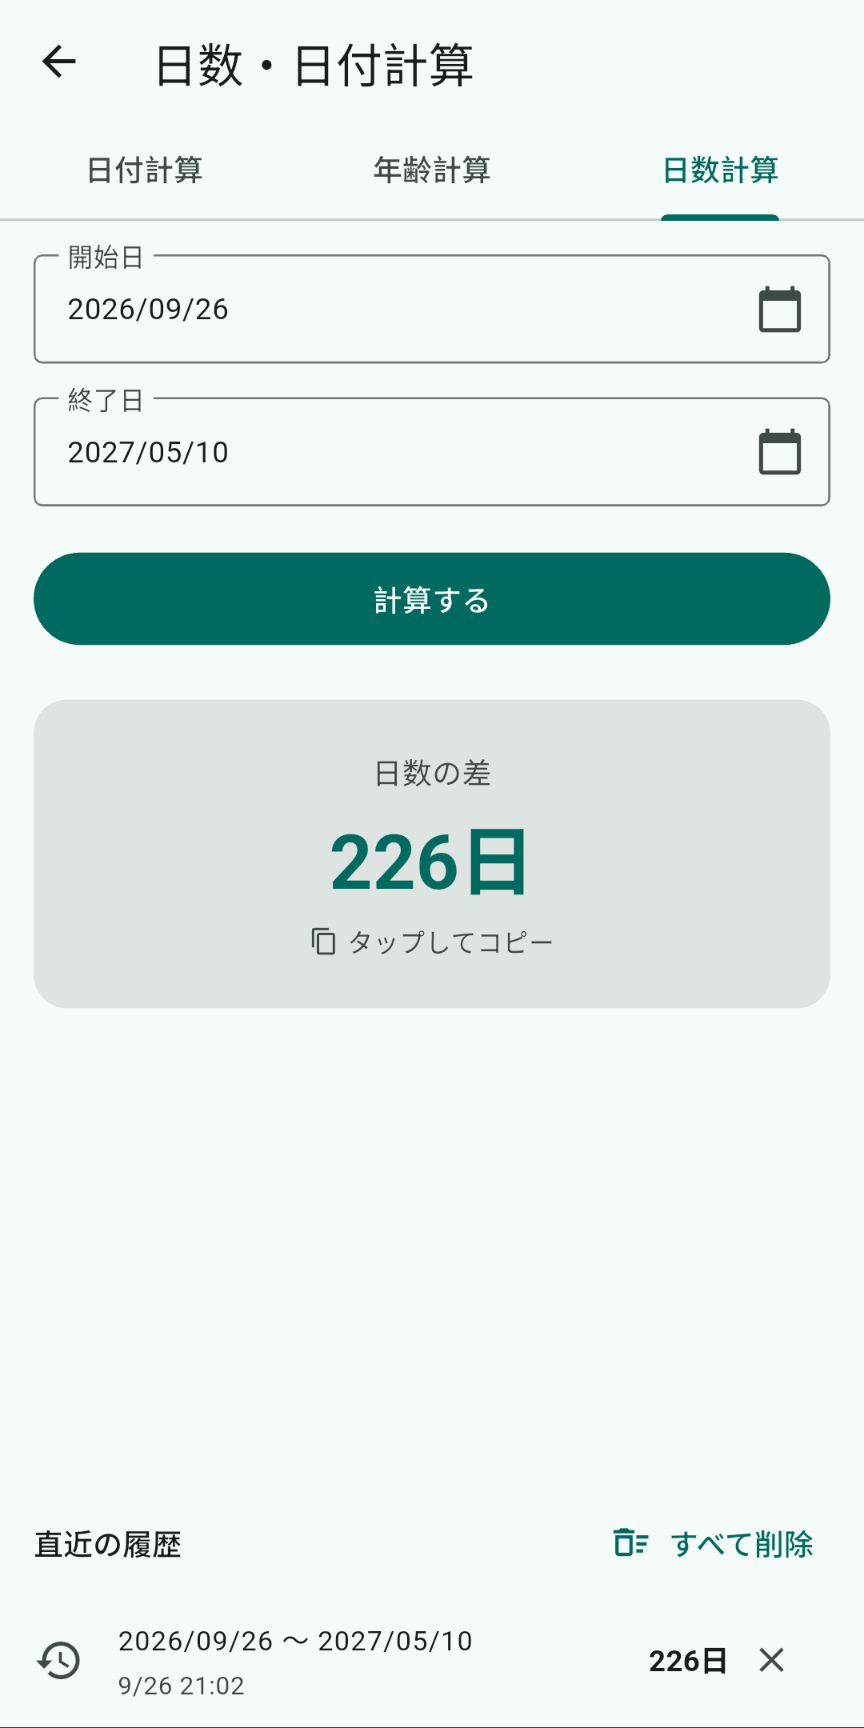
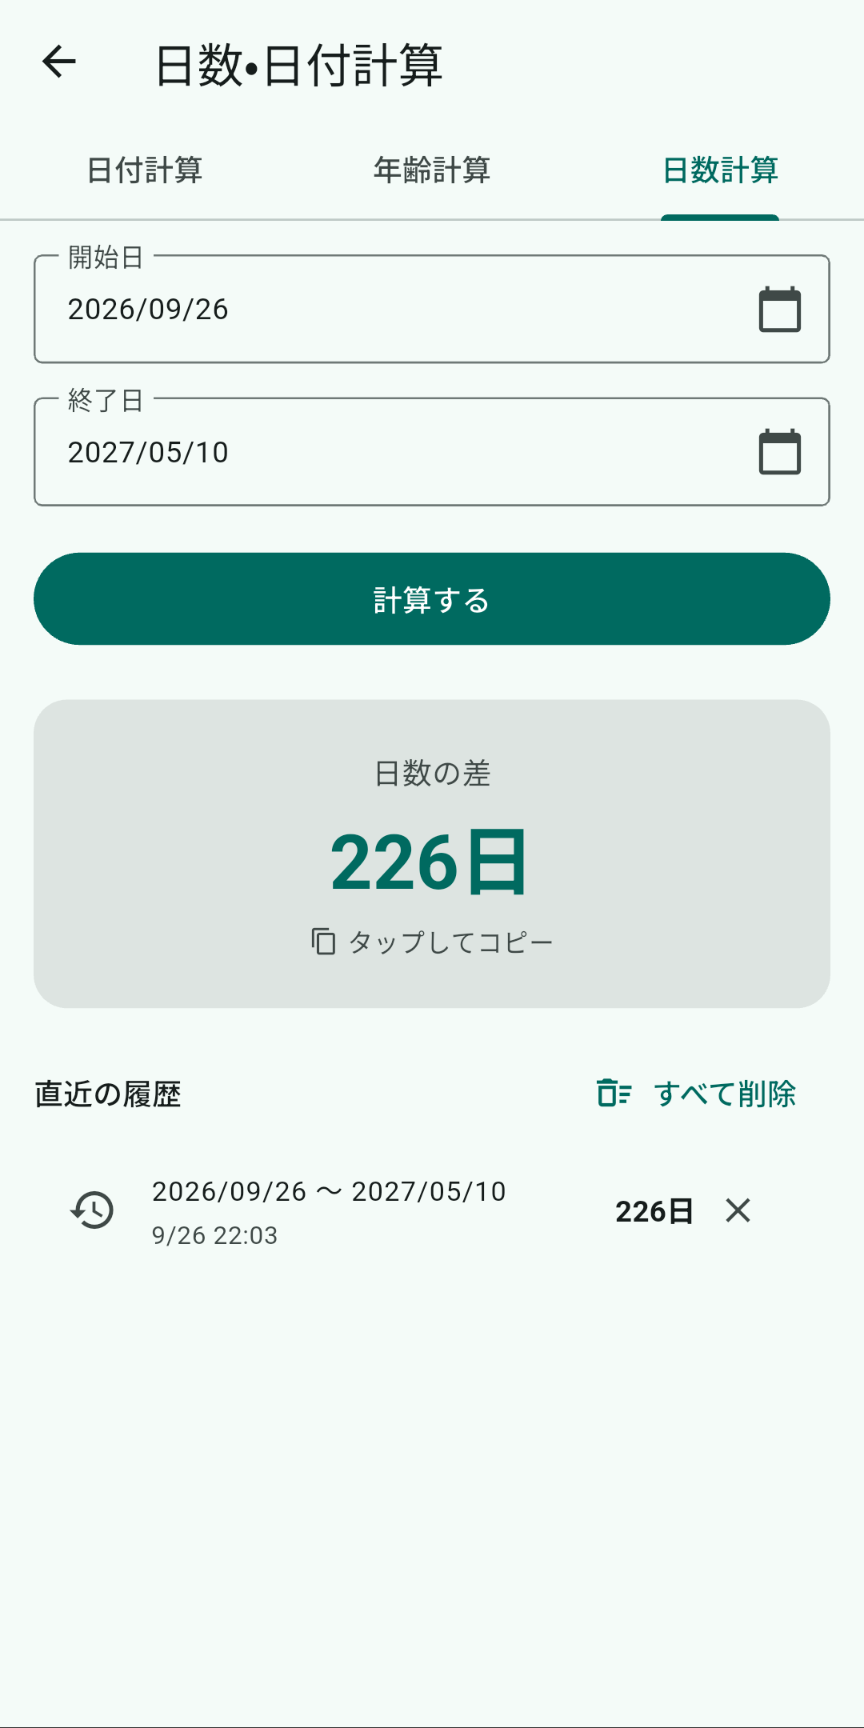
漢字の字形・履歴の位置・入力欄の選択解除を修正 (v1.1.2)
- アプリの言語を日本語(ja_JP)に指定し、「直」などの漢字が中国語の字形で表示される問題を修正
  - flutter_localizations を追加(intl を ^0.20.2 に更新)。日付選択なども日本語表示になる
- 日数・日付計算とパーセント計算の「直近の履歴」を、他の計算と同じく結果のすぐ下に表示
- どの画面でも何もない部分をタップすると入力欄の選択が外れ、キーボードが閉じるように変更
- ストア用スクリーンショットを修正後の画面で撮り直し
- テストを追加(日本語ロケール、タップでの選択解除)
- version を 1.1.2+5 に更新

diff --git a/test/unfocus_on_tap_test.dart b/test/unfocus_on_tap_test.dart
@@ -1,0 +1,53 @@
+import 'package:flutter/material.dart';
+import 'package:flutter_test/flutter_test.dart';
+
+import 'package:satto_keisan/widgets/unfocus_on_tap.dart';
+
+void main() {
+  Future<void> pumpForm(WidgetTester tester) async {
+    await tester.pumpWidget(
+      MaterialApp(
+        builder: (context, child) => UnfocusOnTap(child: child!),
+        home: Scaffold(
+          body: Column(
+            children: [
+              const TextField(key: Key('a')),
+              const TextField(key: Key('b')),
+              ElevatedButton(onPressed: () {}, child: const Text('計算する')),
+              const Expanded(child: SizedBox.expand()), // 何もない部分
+            ],
+          ),
+        ),
+      ),
+    );
+  }
+
+  bool hasFocus(WidgetTester tester, String key) {
+    final field = tester.widget<EditableText>(
+      find.descendant(of: find.byKey(Key(key)), matching: find.byType(EditableText)),
+    );
+    return field.focusNode.hasFocus;
+  }
+
+  testWidgets('何もない部分をタップすると入力欄の選択が外れる', (tester) async {
+    await pumpForm(tester);
+    await tester.tap(find.byKey(const Key('a')));
+    await tester.pump();
+    expect(hasFocus(tester, 'a'), isTrue);
+
+    await tester.tapAt(const Offset(400, 500)); // 画面下部の何もない部分
+    await tester.pump();
+    expect(hasFocus(tester, 'a'), isFalse);
+  });
+
+  testWidgets('別の入力欄をタップするとそちらに選択が移る', (tester) async {
+    await pumpForm(tester);
+    await tester.tap(find.byKey(const Key('a')));
+    await tester.pump();
+
+    await tester.tap(find.byKey(const Key('b')));
+    await tester.pump();
+    expect(hasFocus(tester, 'a'), isFalse);
+    expect(hasFocus(tester, 'b'), isTrue);
+  });
+}

diff --git a/lib/screens/date_calc_screen.dart b/lib/screens/date_calc_screen.dart
@@ -186,15 +186,19 @@ class _DateCalcScreenState extends ConsumerState<DateCalcScreen>
                 ],
               ),
             ),
-            HistorySection(
-              toolType: ToolType.dateCalc,
-              onSelect: _applyHistory,
-              headerPadding: const EdgeInsets.only(left: 16, right: 8),
-            ),
             const AdBannerWidget(),
           ],
         ),
       ),
+    );
+  }
+
+  /// 結果の下に表示する履歴欄(他の計算画面と同じ位置)。全タブ共通の履歴を表示する。
+  Widget _buildHistory() {
+    return HistorySection(
+      toolType: ToolType.dateCalc,
+      onSelect: _applyHistory,
+      headerPadding: const EdgeInsets.only(top: 16),
     );
   }
 
@@ -249,6 +253,7 @@ class _DateCalcScreenState extends ConsumerState<DateCalcScreen>
           label: '計算結果の日付',
           resultText: _addDaysResult == null ? '' : _dateFormat.format(_addDaysResult!),
         ),
+        _buildHistory(),
       ],
     );
   }
@@ -278,6 +283,7 @@ class _DateCalcScreenState extends ConsumerState<DateCalcScreen>
           label: '満年齢',
           resultText: _ageResult == null ? '' : '$_ageResult歳',
         ),
+        _buildHistory(),
       ],
     );
   }
@@ -316,6 +322,7 @@ class _DateCalcScreenState extends ConsumerState<DateCalcScreen>
           label: '日数の差',
           resultText: _daysBetweenResult == null ? '' : '$_daysBetweenResult日',
         ),
+        _buildHistory(),
       ],
     );
   }

diff --git a/lib/screens/percent_calc_screen.dart b/lib/screens/percent_calc_screen.dart
@@ -162,15 +162,19 @@ class _PercentCalcScreenState extends ConsumerState<PercentCalcScreen>
                 ],
               ),
             ),
-            HistorySection(
-              toolType: ToolType.percentCalc,
-              onSelect: _applyHistory,
-              headerPadding: const EdgeInsets.only(left: 16, right: 8),
-            ),
             const AdBannerWidget(),
           ],
         ),
       ),
+    );
+  }
+
+  /// 結果の下に表示する履歴欄(他の計算画面と同じ位置)。全タブ共通の履歴を表示する。
+  Widget _buildHistory() {
+    return HistorySection(
+      toolType: ToolType.percentCalc,
+      onSelect: _applyHistory,
+      headerPadding: const EdgeInsets.only(top: 16),
     );
   }
 
@@ -212,6 +216,7 @@ class _PercentCalcScreenState extends ConsumerState<PercentCalcScreen>
           label: '割引後の価格',
           resultText: _discountResult == null ? '' : '¥${_numFormat.format(_discountResult)}',
         ),
+        _buildHistory(),
       ],
     );
   }
@@ -254,6 +259,7 @@ class _PercentCalcScreenState extends ConsumerState<PercentCalcScreen>
               ? ''
               : '${_changeRateResult! >= 0 ? '+' : ''}${_numFormat.format(_changeRateResult)}%',
         ),
+        _buildHistory(),
       ],
     );
   }

diff --git a/lib/main.dart b/lib/main.dart
@@ -1,9 +1,11 @@
 import 'package:flutter/material.dart';
+import 'package:flutter_localizations/flutter_localizations.dart';
 import 'package:flutter_riverpod/flutter_riverpod.dart';
 import 'package:google_mobile_ads/google_mobile_ads.dart';
 
 import 'providers/settings_provider.dart';
 import 'screens/home_screen.dart';
+import 'widgets/unfocus_on_tap.dart';
 
 /// テーマカラーのシード。ブランドカラーが決まったらここを変更する。
 const Color seedColor = Colors.teal;
@@ -26,6 +28,12 @@ class MyApp extends ConsumerWidget {
     return MaterialApp(
       title: 'サッと計算',
       debugShowCheckedModeBanner: false,
+      // 日本語を指定しないと、端末によっては漢字が中国語の字形になる(例:「直」)
+      locale: const Locale('ja', 'JP'),
+      supportedLocales: const [Locale('ja', 'JP')],
+      localizationsDelegates: GlobalMaterialLocalizations.delegates,
+      // どの画面でも、何もない部分をタップしたら入力欄の選択を外す
+      builder: (context, child) => UnfocusOnTap(child: child!),
       themeMode: settings.themeMode,
       theme: ThemeData(
         colorScheme: ColorScheme.fromSeed(

diff --git a/lib/widgets/unfocus_on_tap.dart b/lib/widgets/unfocus_on_tap.dart
@@ -1,0 +1,20 @@
+import 'package:flutter/material.dart';
+
+/// 入力欄やボタン以外の何もない部分をタップしたら、入力欄の選択を外して
+/// キーボードを閉じる。アプリ全体を包んで使う。
+///
+/// 入力欄やボタンなどのタップはそちらが優先されるため、ここでは反応しない。
+class UnfocusOnTap extends StatelessWidget {
+  const UnfocusOnTap({super.key, required this.child});
+
+  final Widget child;
+
+  @override
+  Widget build(BuildContext context) {
+    return GestureDetector(
+      behavior: HitTestBehavior.translucent,
+      onTap: () => FocusManager.instance.primaryFocus?.unfocus(),
+      child: child,
+    );
+  }
+}

diff --git a/test/widget_test.dart b/test/widget_test.dart
@@ -28,4 +28,13 @@ void main() {
     expect(find.text('消費税計算'), findsOneWidget);
     expect(find.text('パーセント計算'), findsOneWidget);
   });
+
+  testWidgets('アプリの言語は日本語(漢字を日本語の字形で表示するため)', (WidgetTester tester) async {
+    await tester.pumpWidget(const ProviderScope(child: MyApp()));
+    await tester.pumpAndSettle();
+
+    final context = tester.element(find.text('サッと計算'));
+    expect(Localizations.localeOf(context), const Locale('ja', 'JP'));
+    expect(MaterialLocalizations.of(context).cancelButtonLabel, 'キャンセル');
+  });
 }

diff --git a/lib/screens/settings_screen.dart b/lib/screens/settings_screen.dart
@@ -8,7 +8,7 @@ import '../utils/calc_utils.dart';
 /// アプリのバージョン表示。パッケージ肥大化を避けるため
 /// pubspec.yaml の version と手動で同期させている。
 /// ずれると test/app_version_test.dart が失敗する。
-const String appVersion = '1.1.1';
+const String appVersion = '1.1.2';
 
 /// 設定画面。ダークモード切り替え、単位変換のデフォルト単位、
 /// 履歴の全削除、バージョン表示を行う。
